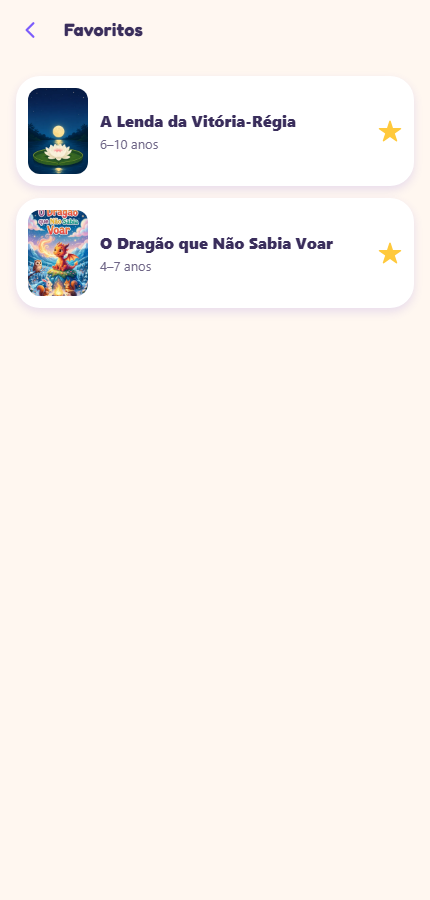
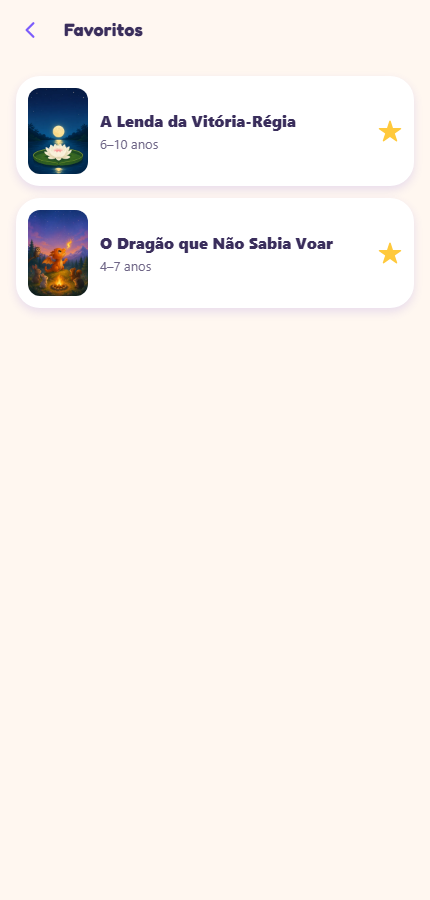
Capas novas para os cinco livros que faltavam
Curupira, Sitio do Picapau Amarelo, Os Tres Porquinhos, O Dragao que Nao Sabia
Voar e O Robo que Aprendeu a Sonhar ganham ilustracoes proprias. Com isso todo
o acervo passa a ter arte no mesmo nivel: sai o ultimo desenho provisorio da
auditoria e saem os fundos genericos com o titulo escrito por cima.

O Dragao continua em `livro01.png`, porque o catalogo e o aplicativo apontam
para esse nome. Sai com paleta e pontilhado: 531 KB no lugar dos 2,1 MB de
antes, sem faixas no ceu estrelado.

O selo de versao das capas vai para 2026-07-31-2, senao quem ja visitou o site
continuaria vendo a arte anterior.

Changed region(s): [[0.0605, 0.2178, 0.2116, 0.3422]]

diff --git a/src/config.ts b/src/config.ts
@@ -29,6 +29,7 @@ export function fileUrl(path: string): string {
 // guardam imagem por semanas. Sem isso, quem já visitou o site continuaria
 // vendo a capa antiga por até um mês.
 //
-// Trocou alguma capa? Mude a data aqui no mesmo commit. Só as capas usam este
-// selo: a narração tem ~60 MB e não deve ser rebaixada por causa de arte.
-export const ASSET_VERSION = '2026-07-31';
+// Trocou alguma capa? Mude o selo aqui no mesmo commit (data, com sufixo se
+// houver mais de uma troca no dia). Só as capas o usam: a narração tem ~60 MB
+// e não deve ser rebaixada por causa de arte.
+export const ASSET_VERSION = '2026-07-31-2';

diff --git a/CREDITOS.md b/CREDITOS.md
@@ -37,9 +37,12 @@ atribuição obrigatória a cumprir, e a tela de Créditos do site reflete isso.
 | Arquivo | Como foi feito |
 |---|---|
 | `cachinhos.jpg`, `chapeuzinho.jpg`, `cinderela.jpg`, `joao-pe-de-feijao.jpg`, `patinho-feio.jpg`, `vitoria-regia.jpg` | Ilustrações próprias, fornecidas pelo autor do projeto em 31/07/2026 |
-| `saci.jpg`, `curupira.jpg`, `sitio.jpg` | Desenhadas em SVG por `scripts/make-covers.mjs` e rasterizadas. Substituíram imagens de terceiros na auditoria de 28/07/2026 |
-| `livro01.png` | Ilustração gerada por IA para a história original do projeto |
+| `curupira.jpg`, `sitio.jpg`, `livro01.png`, `livro03.jpg`, `livro04.jpg` | Ilustrações próprias, fornecidas pelo autor do projeto em 31/07/2026. Substituíram os desenhos provisórios |
+| `saci.jpg` | Desenhada em SVG por `scripts/make-covers.mjs` e rasterizada. Substituiu imagem de terceiros na auditoria de 28/07/2026 |
 | `public/icons/*` | Ícones do PWA, derivados do ícone do aplicativo |
+
+`livro01.png` é o único em PNG, porque o catálogo e o aplicativo apontam para esse nome. Sai com
+paleta e pontilhado (531 KB no lugar dos 3 MB do PNG puro), o que evita faixas no céu estrelado.
 
 As miniaturas em `covers/thumbs/` são reduções das capas acima e seguem a mesma situação de cada
 original.
